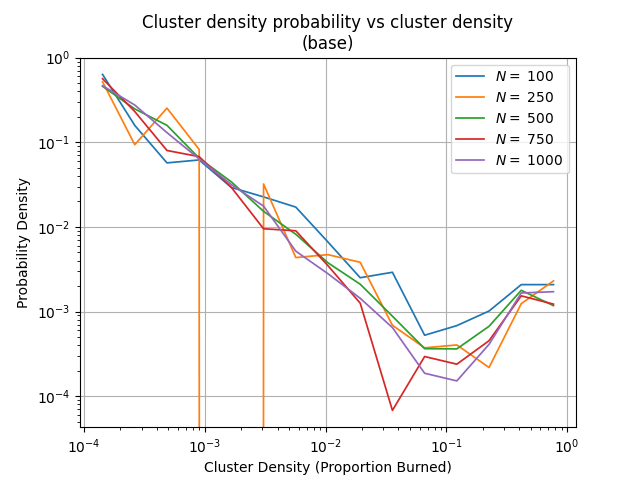
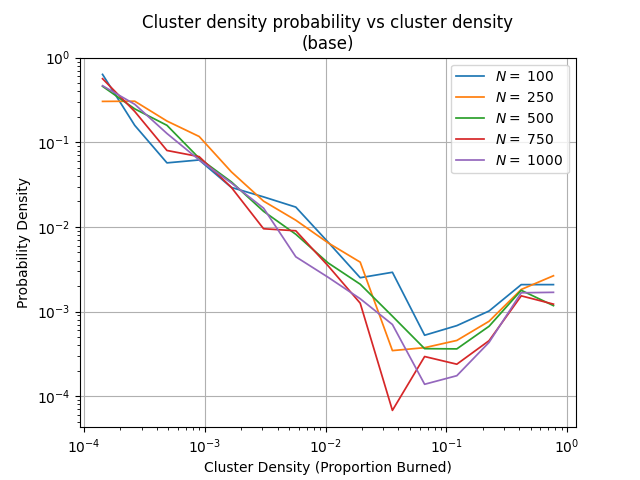
Cluster density plot saving

diff --git a/ForestFirePercolation/src/plots/cluster_size_plot.py b/ForestFirePercolation/src/plots/cluster_size_plot.py
@@ -1,7 +1,7 @@
 import matplotlib
 import numpy as np
-import powerlaw
 from scipy.optimize import curve_fit
+from scipy.stats import ks_2samp
 
 matplotlib.use('TkAgg')
 import matplotlib.pyplot as plt
@@ -79,25 +79,51 @@ class ClusterSizePlot:
 
     def plot_power_law(self, bin_centers, normalized_hist, ax, label_power_law):
         try:
-            fit = powerlaw.Fit(self.cluster_sizes, discrete=True, estimate_discrete=False)
-            alpha = fit.power_law.alpha
-            fit.power_law.estimate_discrete
-            xmin = fit.power_law.xmin
-            xmax = fit.power_law.xmax
+            # Find the point where the data starts increasing
+            increasing_idx = np.argmax(normalized_hist[1:] > normalized_hist[:-1]) + 1  # Find first increase
 
-            # Generate x values for the curve
-            x_values = np.linspace(xmin, xmax, 100)
+            # Slice the data to include only the part where the histogram is still decreasing
+            truncated_bin_centers = bin_centers[:increasing_idx]
+            truncated_normalized_hist = normalized_hist[:increasing_idx]
 
-            # Compute the power-law function (unnormalized)
-            y_values = x_values ** (-alpha)
+            # Log-bin centers and log-normalized histogram
+            log_bin_centers = np.log10(truncated_bin_centers)
+            log_normalized_hist = np.log10(truncated_normalized_hist)
 
-            # Normalize to match empirical distribution
-            y_values /= y_values[0]
+            # Define a linear function for log-log fitting (log(P) = log(a) + b * log(x))
+            def log_power_law(log_x, log_a, b):
+                return log_a + b * log_x
 
-            label = 'power law' if label_power_law else ''
-            ax.plot(x_values, y_values, 'r--', alpha=0.6, lw=1, label=label)
-        except RuntimeError:
+            # Perform curve fitting in log space (only on the truncated data)
+            popt, pcov = curve_fit(log_power_law, log_bin_centers, log_normalized_hist, maxfev=10000)
+            log_a, b = popt
+
+            # Convert log-space parameters back to linear space for plotting
+            a = 10 ** log_a
+
+            # Generate the fitted curve data
+            fitted_curve = a * truncated_bin_centers ** b
+            # Plot the fitted curve
+            label = ''
+            if label_power_law:
+                label = 'Power Law Distribution'
+            ax.plot(truncated_bin_centers, fitted_curve, 'r--', alpha=0.6, lw=1.5, label=label)
+            print(normalized_hist, fitted_curve)
+            self.ks_test(normalized_hist, fitted_curve)
+        except ValueError:
             print("Curve fitting failed.")
+
+    def ks_test(self, data1, data2):
+        statistic, p_value = ks_2samp(data1, data2)
+
+        # Output the result
+        print(f"KS Statistic: {statistic}")
+        print(f"P-value: {p_value}")
+        if p_value < 0.05:
+            print("The two samples are likely from different distributions.")
+        else:
+            print("There is no significant difference between the distributions.")
+
 
     def plot_single_cluster_size_probability_vs_cluster_size(self, ax):
         """
@@ -140,7 +166,8 @@ class ClusterSizePlot:
         fig, ax = plt.subplots()
         self.save_cluster_sizes(results_per_system_size[system_size])
         self.system_size = system_size
-        self.plot_single_cluster_size_probability_vs_cluster_size(ax)
+        # self.plot_single_cluster_size_probability_vs_cluster_size(ax)
+        self.plot_single_cluster_size_probability_vs_cluster_size_with_power_law(ax, True)
         # ax.set_xlabel(r'Density $d$')
         # ax.set_ylabel(r'$P_N$')
         ax.legend()

diff --git a/ForestFirePercolation/src/main_generate_plots.py b/ForestFirePercolation/src/main_generate_plots.py
@@ -3,13 +3,13 @@ from plots.plot_generator import PlotGenerator
 if __name__ == "__main__":
     generator = PlotGenerator("Snellius/Snellius_Data_Full.csv")
     # generator = PlotGenerator("Simulation_data_critpoints.csv")
-    generator.generate_base_experiment_plots()
-    generator.generate_wind_experiment_plots()
-    generator.generate_env_index_experiment_plots()
-    generator.generate_env_index_050_and_wind_experiment_plots()
-    generator.generate_plant_experiment_plots()
-    # generator.generate_base_SOC_plots()
-    # generator.generate_wind_SOC_plots()
-    # generator.generate_env_wind_SOC_plots()
-    # generator.generate_plant_SOC_plots()
-    # generator.generate_env_index_SOC_plots()
+    # generator.generate_base_experiment_plots()
+    # generator.generate_wind_experiment_plots()
+    # generator.generate_env_index_experiment_plots()
+    # generator.generate_env_index_050_and_wind_experiment_plots()
+    # generator.generate_plant_experiment_plots()
+    generator.generate_base_SOC_plots()
+    generator.generate_wind_SOC_plots()
+    generator.generate_env_wind_SOC_plots()
+    generator.generate_plant_SOC_plots()
+    generator.generate_env_index_SOC_plots()

diff --git a/ForestFirePercolation/src/plots/plot_generator.py b/ForestFirePercolation/src/plots/plot_generator.py
@@ -248,10 +248,8 @@ class PlotGenerator:
                                                 self.critical_points['plant'])
 
     def generate_SOC_plots(self, filtered_results, title, file_name):
-        # self.cluster_size_plot.plot_single_cluster_size(filtered_results, '100', title)
+        self.cluster_size_plot.plot_single_cluster_size(filtered_results, '1000', title, file_name + '_single_1000')
         self.cluster_size_plot.plot_multiple_cluster_size(filtered_results, title, file_name + '_multiple')
-        # self.cluster_size_plot.plot_multiple_cluster_size_with_power_law(filtered_results, title)
-        # self.cluster_size_plot.plot_multiple_power_law(filtered_results, title)
 
     def generate_base_SOC_plots(self):
         filtered_results = self.result_filter.no_wind_at_size_specific_critical_filter(self.results_per_system_size,
